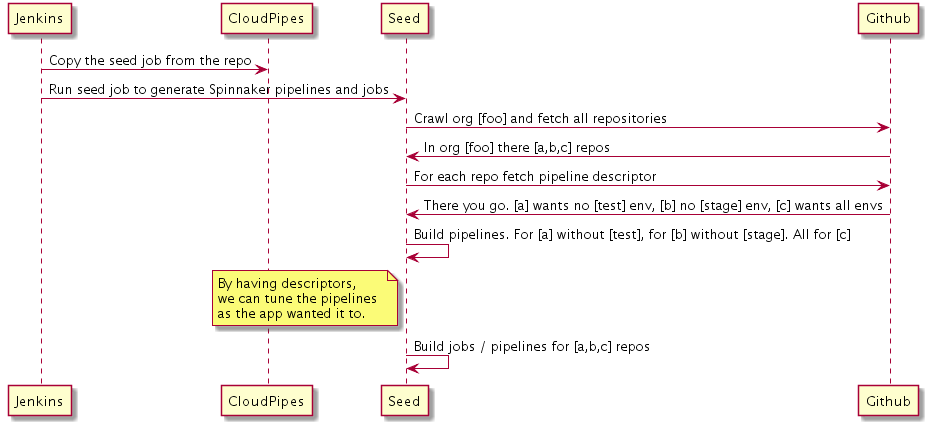
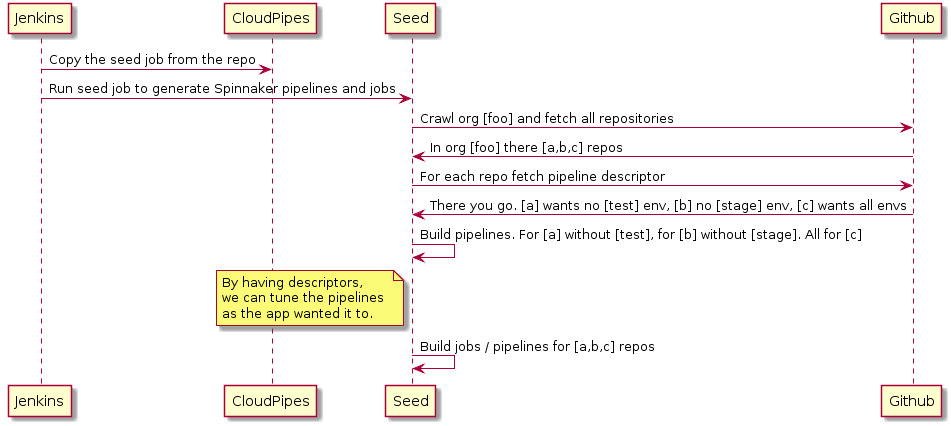
Sync docs

diff --git a/docs/DOCS.html b/docs/DOCS.html
@@ -183,7 +183,7 @@ library, which can:</p>
 </div>
 <div class="imageblock">
 <div class="content">
-<img src="crawler.png" alt="crawler" width="928" height="425">
+<img src="crawler.png" alt="crawler" width="951" height="426">
 </div>
 </div>
 <div class="paragraph">

diff --git a/docs/INTRO.html b/docs/INTRO.html
@@ -123,7 +123,7 @@ library, which can:</p>
 </div>
 <div class="imageblock">
 <div class="content">
-<img src="crawler.png" alt="crawler" width="928" height="425">
+<img src="crawler.png" alt="crawler" width="951" height="426">
 </div>
 </div>
 <div class="paragraph">

diff --git a/docs/index.html b/docs/index.html
@@ -183,7 +183,7 @@ library, which can:</p>
 </div>
 <div class="imageblock">
 <div class="content">
-<img src="crawler.png" alt="crawler" width="928" height="425">
+<img src="crawler.png" alt="crawler" width="951" height="426">
 </div>
 </div>
 <div class="paragraph">
